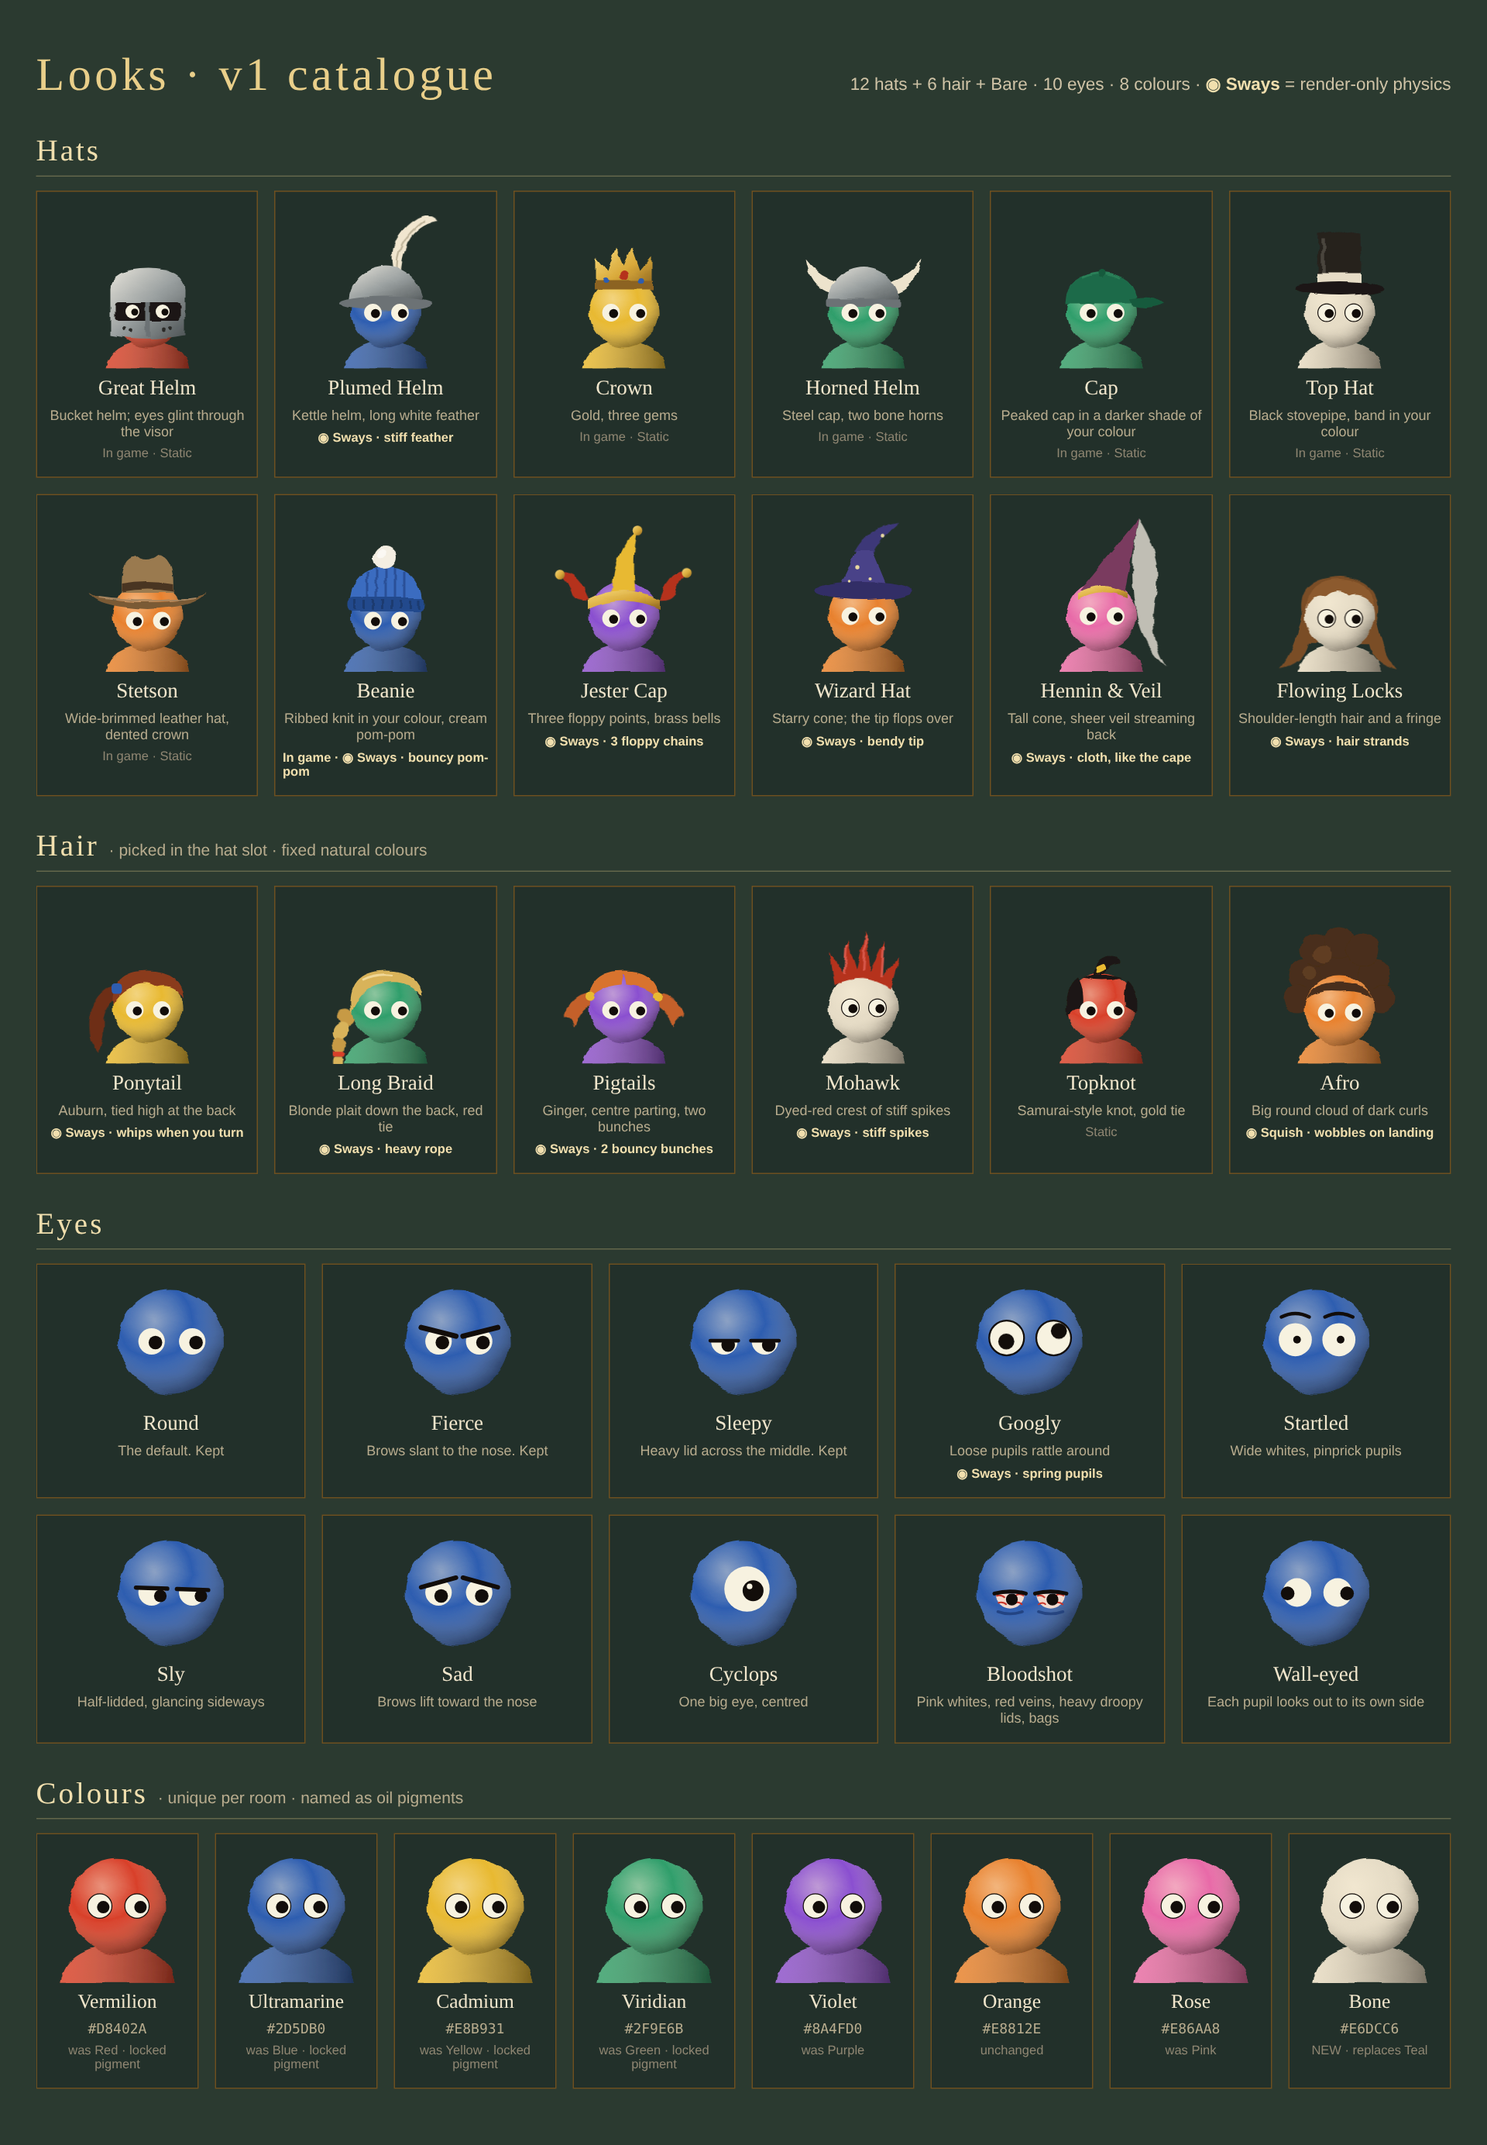
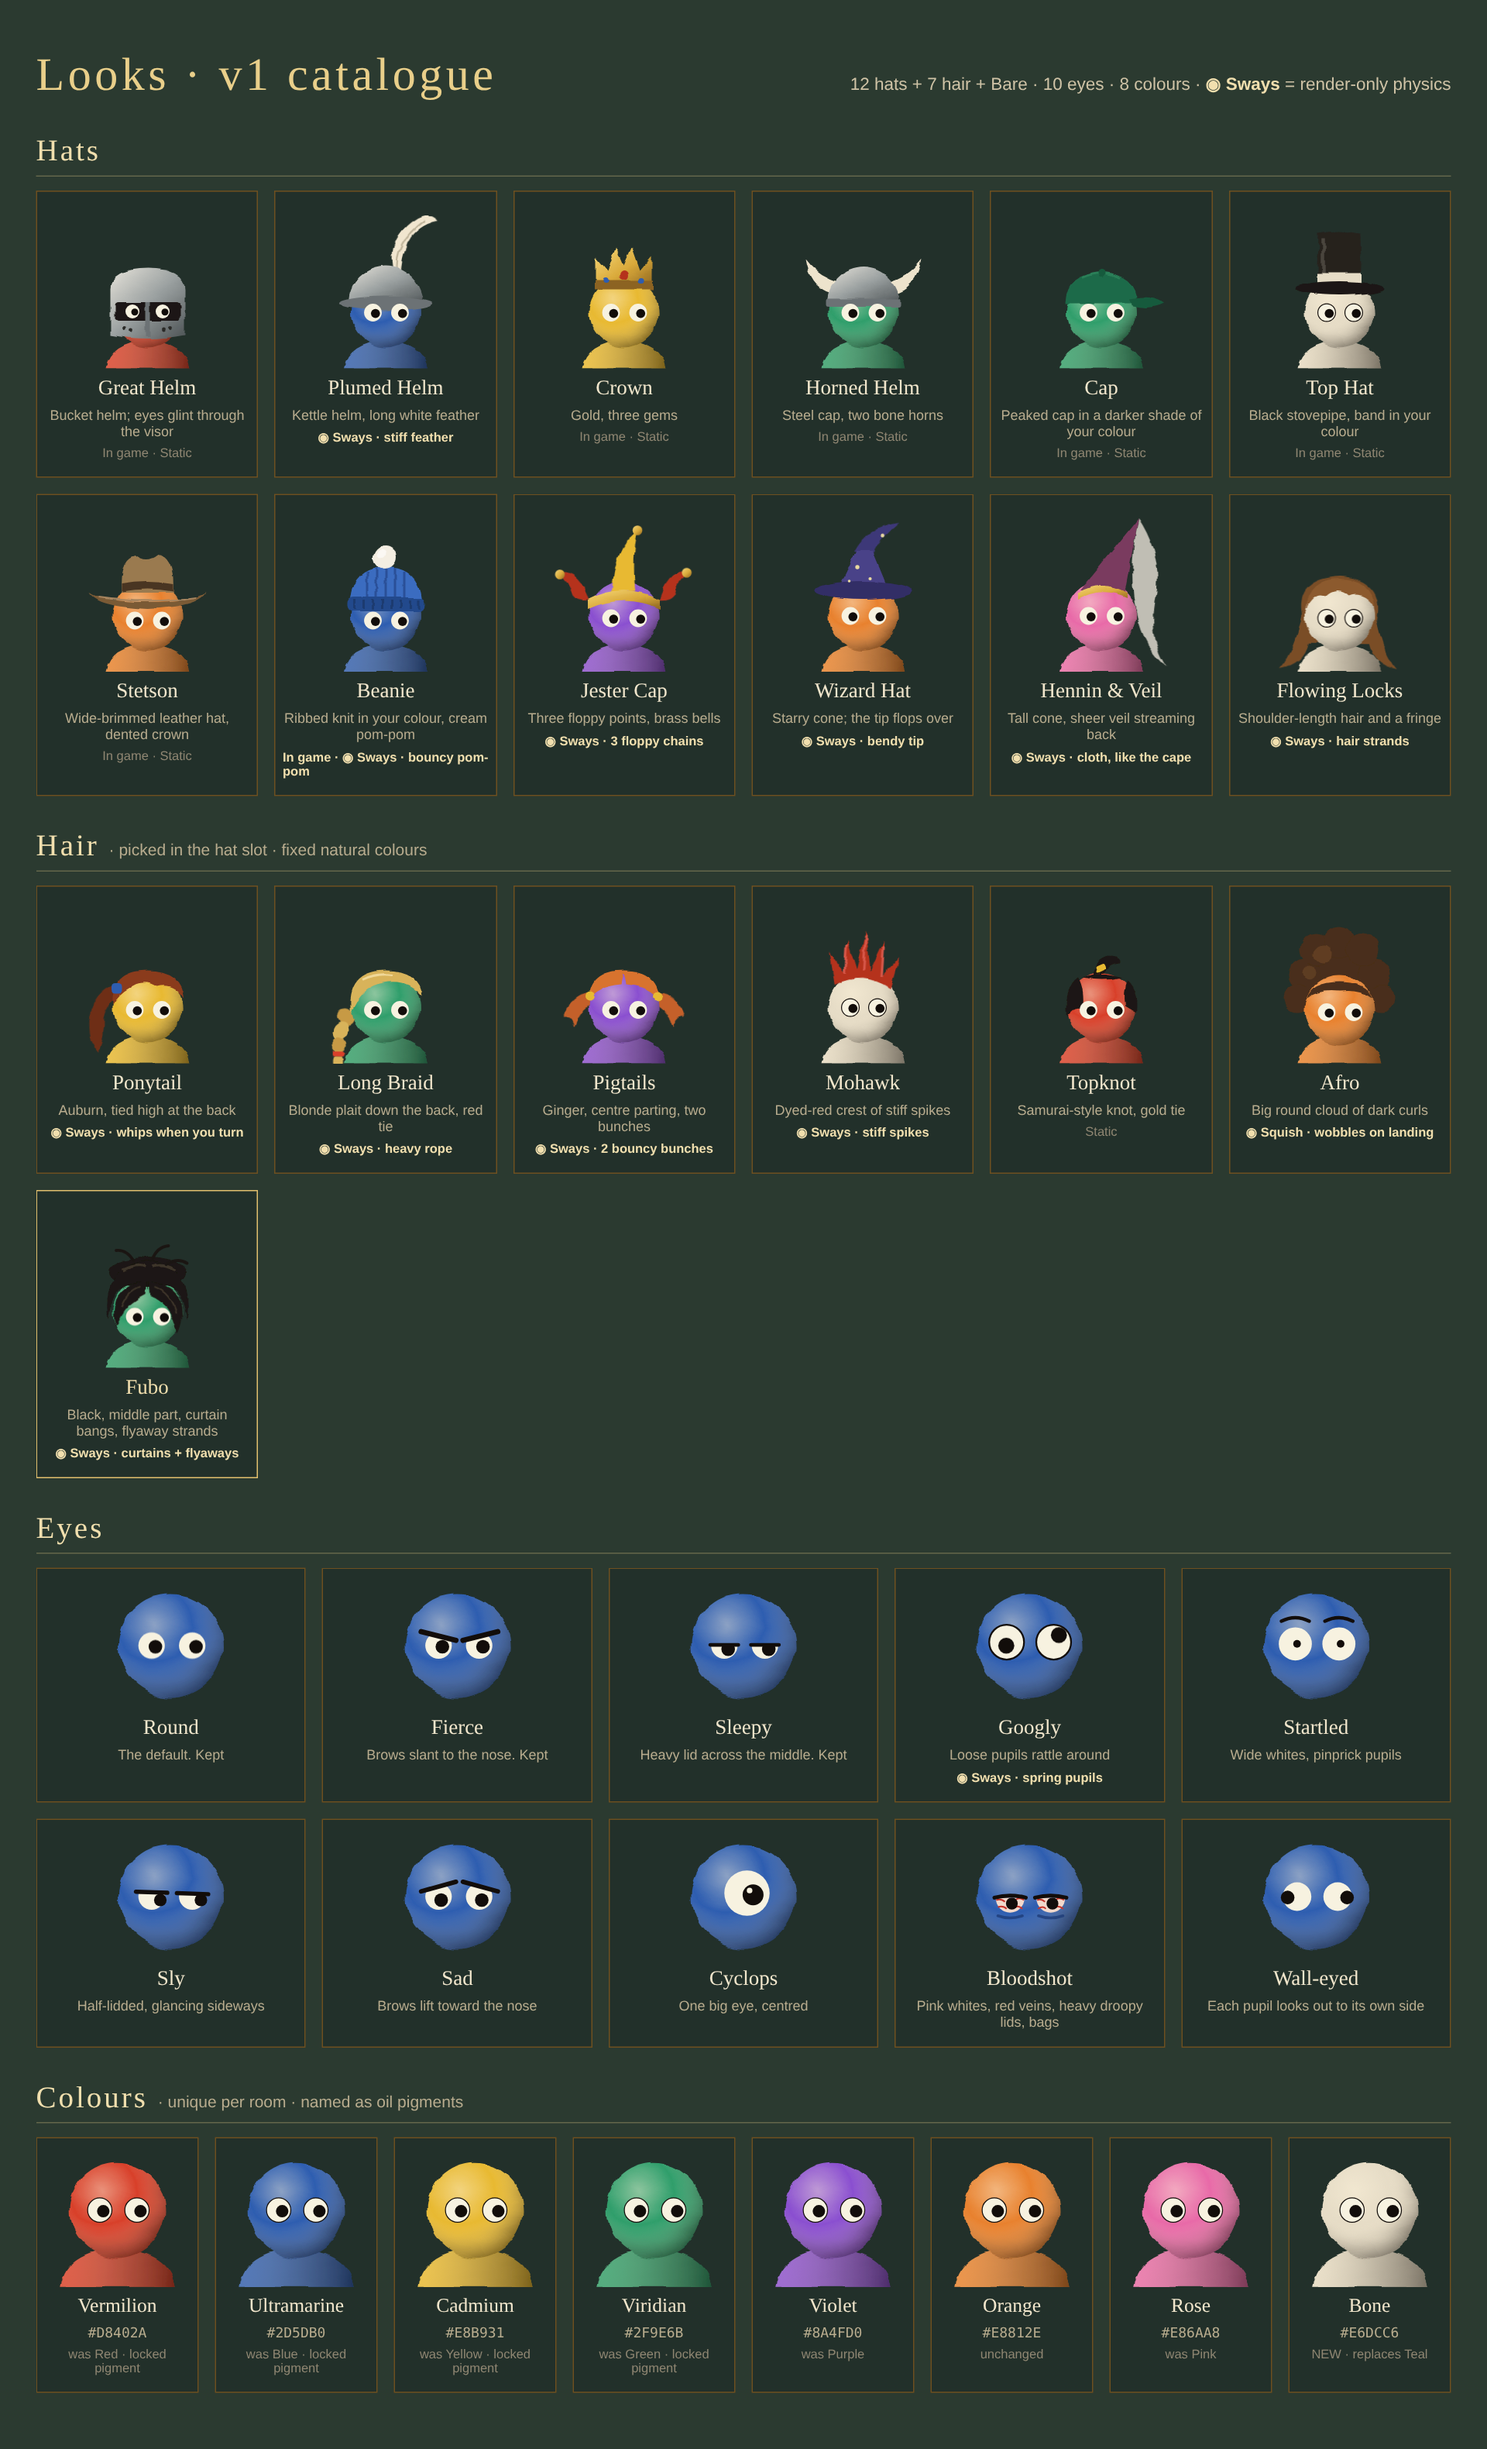
Records: the owner's latest Looks handoff (a seventh hairstyle, Fubo) and its catalogue picture

diff --git a/LOOKS_HANDOFF.md b/LOOKS_HANDOFF.md
@@ -3,8 +3,8 @@
 > **Revised 2026-10-06:** the owner wants to keep the four hats already in the game (Cap, Top hat, Stetson, Beanie) alongside the new ones.
 > That makes 12 hats plus Bare. Nothing is removed. The Beanie's pom-pom now bounces.
 >
-> **Revised again 2026-10-06 (evening):** 6 hairstyles added to the same hat slot (see §2b) and 2 more eye sets, Bloodshot and Wall-eyed
-> (see §4). Totals: 18 headwear options plus Bare, 10 eyes, 8 colours.
+> **Revised again 2026-10-06 (evening):** 7 hairstyles (including the owner's named style, Fubo) added to the same hat slot (see §2b) and 2 more eye sets, Bloodshot and Wall-eyed
+> (see §4). Totals: 19 headwear options plus Bare, 10 eyes, 8 colours.
 
 From the owner's design window, 2026-10-05. The visual catalogue is the "Looks — Hats, Eyes, Colours v1" artboard on the owner's
 "Museum Menu Screens" design canvas; ask the owner for a screenshot if you need to see it. This file is the spec.
@@ -58,7 +58,7 @@ Suggested order in the picker: `helmet, crown, horns, cap, tophat, cowboy, beani
 ## 2b. Hairstyles (same `Hat` list and same picker row, after the hats)
 
 Hair uses fixed natural colours (it doesn't follow the player's colour), painted with the painter like the hats. In the picker they
-come after the hats; you can show the row label as "Hat / Hair". Order: `ponytail, braid, pigtails, mohawk, topknot, afro`.
+come after the hats; you can show the row label as "Hat / Hair". Order: `fubo, ponytail, braid, pigtails, mohawk, topknot, afro`.
 
 | id | Name | Look | Sway? |
 |---|---|---|---|
@@ -67,6 +67,7 @@ come after the hats; you can show the row label as "Hat / Hair". Order: `ponytai
 | `pigtails` | Pigtails | Ginger (#D8732E / #C4602A), centre parting, two short bunches at the sides with gold ties. | **Yes**: 2 bouncy bunches |
 | `mohawk` | Mohawk | Dyed-red (#B5321F) crest of 7 stiff spikes along the top centre of the head, the rest bare. | **Yes**: stiff spikes |
 | `topknot` | Topknot | Black (#1E1712) samurai-style: hair at the sides and back, a small folded knot on top with a gold tie. | Static |
+| `fubo` | **Fubo** (owner's named style) | Black (#1A1512, strand highlights #3E342A) full mop with volume on top, a **middle part**, thick **curtain bangs** falling either side of the forehead to cheek level (the right one a little longer, brushing past the eye), sides covering the ears, and 3 short **flyaway strands** sticking up. | **Yes**: curtains + flyaways |
 | `afro` | Afro | Big round cloud of dark curls (#4A2E1A) behind and above the head (≈1.25 r radius, centred 0.75 r above the head centre), with a hairline over the brow. | **Squish**: wobbles on landing |
 
 Sway settings (first guesses, same `DangleSpec` as §3; anchors in head radii, the back of the head is −x):
@@ -76,6 +77,8 @@ Sway settings (first guesses, same `DangleSpec` as §3; anchors in head radii, t
 | ponytail | tail | (−0.93, −0.5) | 4 | 1.9 | 0.5 | 0.2 | 0.45 → 0.12 | |
 | braid | plait | (−0.9, 0.05) | 5 | 2.0 | 0.15 | 0.1 | 0.42 → 0.3 | heavier: gravity ×1.4; use a braided strip texture (alternating lumps); `tip: 'tie'` (red tie plus tuft) |
 | pigtails | left / right | (−0.97, −0.33), (0.97, −0.33) | 3 | 1.0 | ±0.7 (outward) | 0.3 | 0.45 → 0.15 | ties drawn at the anchors |
+| fubo | left / right curtain | (−0.03, −0.87), (0.03, −0.87) | 3 | 1.3 / 1.45 | ±0.35 (down and out) | 0.4 | 0.45 → 0.12 | in FRONT of the face, over the eyes' layer; they part when running, flop on landing |
+| fubo | 3 flyaways | along the top, x −0.4 … 0.6 | 2 | 0.4 | pointing up and out | 0.6 | 0.06 → 0.03 | thin strands that wobble |
 | mohawk | 7 spikes | evenly along x −0.7 … 0.7 on the top of the head | 2 | 0.5–1.1 (tallest in the middle) | pointing straight out from the head | 0.85 | 0.2 → 0.02 | they mostly jiggle |
 
 Afro squish: no chain. Give the curl cloud a scale spring (`finish.afro.spring`, `damping`). When the head's vertical speed changes
@@ -190,7 +193,7 @@ feather and veil a little.
    head as it moves, rotates and comes off.
 6. **Googly pupils live** in the fight.
 7. **Portraits:** settle the dangles before baking.
-8. **Records:** a DECISIONS.md line (12 hats with the 4 old ones kept, 6 hairstyles in the hat slot, 10 eyes, Teal → Bone, sway is render-only), an ASSETS.md note (still no asset files; hats
+8. **Records:** a DECISIONS.md line (12 hats with the 4 old ones kept, 7 hairstyles including Fubo in the hat slot, 10 eyes, Teal → Bone, sway is render-only), an ASSETS.md note (still no asset files; hats
    are painted at runtime), and a Status line in CLAUDE.md.
 
 ## 8. What to tell the owner when it's ready
